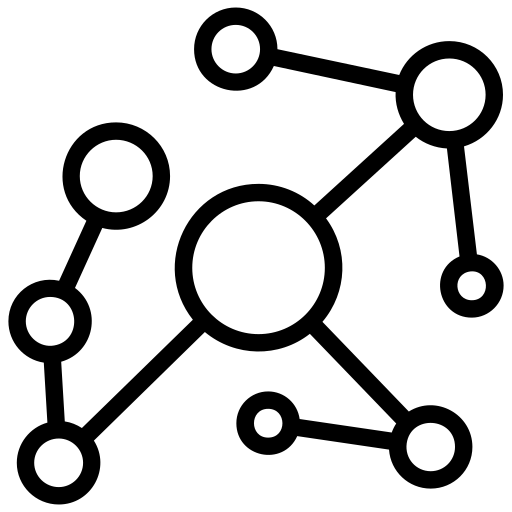
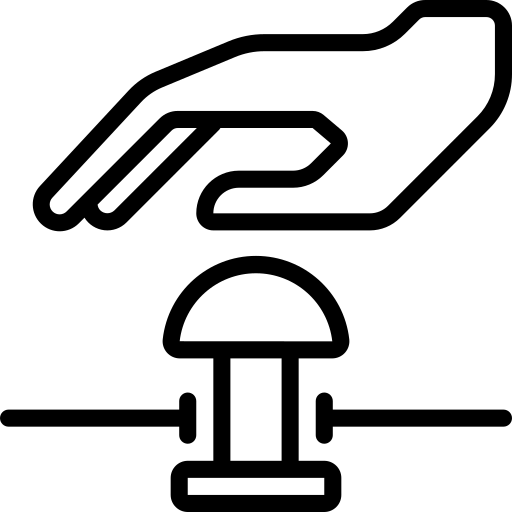
implemented the NanoVNA 3D Model Base Creator

diff --git a/src/ui/circuit_model_window.py b/src/ui/circuit_model_window.py
@@ -1,0 +1,305 @@
+import os
+import json
+import subprocess
+from PyQt6.QtWidgets import (QMainWindow, QWidget, QVBoxLayout, QHBoxLayout, 
+                             QLabel, QTextEdit, QPushButton, QMenuBar, QMenu, 
+                             QFileDialog, QFrame, QSizePolicy, QStyle, QStackedWidget,
+                             QDialog, QLineEdit, QMessageBox)
+from PyQt6.QtGui import QAction, QActionGroup
+from PyQt6.QtCore import Qt, pyqtSignal
+
+import config
+from src.utils.image_helper import load_and_scale_image
+from src.utils.gemini_worker import GeminiWorker
+from src.utils.stl_viewer import STLViewerWidget
+from src.ui.panels import ELK_FlowChartPanel, ELK_GraphPanel
+
+# --- Widget personalizzato per il drag and drop ---
+class ImageDropLabel(QLabel):
+    imageDropped = pyqtSignal(str)
+    clicked = pyqtSignal()
+
+    def __init__(self, text=""):
+        super().__init__(text)
+        self.setAcceptDrops(True)
+        self.setCursor(Qt.CursorShape.PointingHandCursor)
+
+    def mousePressEvent(self, event):
+        if event.button() == Qt.MouseButton.LeftButton:
+            self.clicked.emit()
+        super().mousePressEvent(event)
+
+    def dragEnterEvent(self, event):
+        if event.mimeData().hasUrls():
+            url = event.mimeData().urls()[0]
+            if url.isLocalFile():
+                ext = os.path.splitext(url.toLocalFile())[1].lower()
+                if ext in ['.png', '.jpg', '.jpeg', '.bmp']:
+                    event.acceptProposedAction()
+                    self.setStyleSheet("border: 2px solid #4CAF50; background-color: #e8f5e9;")
+                    return
+        event.ignore()
+
+    def dragLeaveEvent(self, event):
+        self.setStyleSheet("")
+
+    def dropEvent(self, event):
+        self.setStyleSheet("")
+        file_path = event.mimeData().urls()[0].toLocalFile()
+        self.imageDropped.emit(file_path)
+
+# --- Finestra Principale Circuito (NanoVNA) ---
+class CircuitModelWindow(QMainWindow):
+    def __init__(self):
+        super().__init__()
+        self.setWindowTitle("Generatore Modello 3D (Circuito / NanoVNA)")
+        self.resize(1000, 700)
+        
+        self.current_image_path = None
+        
+        self._init_menu_bar()
+        self._init_central_widget()
+        self._setup_layout()
+        self._apply_styles()
+
+    def _init_menu_bar(self):
+        menu_bar = self.menuBar()
+        file_menu = menu_bar.addMenu("&File")
+        exit_action = QAction("E&sci", self)
+        exit_action.setShortcut("Ctrl+Q")
+        exit_action.triggered.connect(self.close)
+        file_menu.addAction(exit_action)
+
+        template_menu = menu_bar.addMenu("&Template")
+        template_group = QActionGroup(self)
+        template_group.setExclusive(True)
+        
+        act_flow = QAction("Flow Chart", self)
+        act_flow.setCheckable(True)
+        act_flow.triggered.connect(lambda: self.switch_template(0))
+        template_group.addAction(act_flow)
+
+        act_dir = QAction("Direct Graph", self)
+        act_dir.setCheckable(True)
+        act_dir.triggered.connect(lambda: self.switch_template(1))
+        template_group.addAction(act_dir)
+        act_dir.setChecked(True)
+        
+        act_undir = QAction("Undirect Graph", self)
+        act_undir.setCheckable(True)
+        act_undir.triggered.connect(lambda: self.switch_template(2))
+        template_group.addAction(act_undir)
+
+        template_menu.addActions([act_flow, act_dir, act_undir])
+
+        options_menu = menu_bar.addMenu("&Opzioni")
+        act_api_key = QAction("API Key", self)
+        act_api_key.triggered.connect(self._apri_impostazioni_api)
+        options_menu.addAction(act_api_key)
+
+        act_debug_mode = QAction("Modalità Debug", self)
+        act_debug_mode.setCheckable(True)
+        act_debug_mode.setChecked(config.DEBUG_MODE)
+        act_debug_mode.triggered.connect(self._toggle_debug_mode)
+        options_menu.addAction(act_debug_mode)
+
+    def _init_central_widget(self):
+        central_widget = QWidget()
+        self.setCentralWidget(central_widget)
+        self.main_layout = QHBoxLayout(central_widget)
+        self.main_layout.setContentsMargins(20, 20, 20, 20)
+        self.main_layout.setSpacing(20)
+
+    def _setup_layout(self):
+        self.left_col_layout = QVBoxLayout()
+        self.main_layout.addLayout(self.left_col_layout, stretch=1)
+
+        self.img_preview_label = ImageDropLabel("PREVIEW IMG\n\n(Clicca qui o trascina un'immagine)")
+        self.img_preview_label.setObjectName("img_preview")
+        self.img_preview_label.setAlignment(Qt.AlignmentFlag.AlignCenter)
+        self.img_preview_label.setMinimumSize(400, 300)
+        self.img_preview_label.setSizePolicy(QSizePolicy.Policy.Expanding, QSizePolicy.Policy.Expanding)
+        
+        self.img_preview_label.imageDropped.connect(self._process_image_file)
+        self.img_preview_label.clicked.connect(self.handle_choose_file)
+        self.left_col_layout.addWidget(self.img_preview_label, stretch=1)
+
+        self.right_col_layout = QVBoxLayout()
+        self.main_layout.addLayout(self.right_col_layout, stretch=1)
+
+        self.stacked_widget = QStackedWidget()
+        self.panel_flow = ELK_FlowChartPanel()
+        self.panel_dir = ELK_GraphPanel()
+        self.panel_undir = ELK_GraphPanel()
+        
+        self.stacked_widget.addWidget(self.panel_flow)
+        self.stacked_widget.addWidget(self.panel_dir)
+        self.stacked_widget.addWidget(self.panel_undir)
+        self.stacked_widget.setCurrentIndex(1)
+        self.right_col_layout.addWidget(self.stacked_widget, stretch=1)
+
+        self.viewer_3d = STLViewerWidget()
+        self.viewer_3d.setMinimumHeight(300)
+        self.right_col_layout.addWidget(self.viewer_3d)
+
+        self.console_output = QTextEdit()
+        self.console_output.setReadOnly(True)
+        self.console_output.setMaximumHeight(150)
+        self.console_output.setStyleSheet("background-color: rgba(var(#f0f0f0),0.5); color: rgb(255,255,255); font-family: monospace;")
+        self.console_output.setPlaceholderText("Qui compariranno i log della pipeline Circuito ELK.")
+        self.right_col_layout.addWidget(self.console_output)
+
+        self.send_btn_layout = QHBoxLayout()
+        self.right_col_layout.addLayout(self.send_btn_layout)
+        self.send_btn_layout.addStretch()
+
+        self.send_btn = QPushButton(" Esegui Pipeline Circuito")
+        self.send_btn.setMinimumSize(160, 40)
+        icon = self.style().standardIcon(QStyle.StandardPixmap.SP_ArrowRight)
+        self.send_btn.setIcon(icon)
+        self.send_btn.clicked.connect(self.handle_send_to_gemini)
+        self.send_btn_layout.addWidget(self.send_btn)
+
+    def switch_template(self, index):
+        self.stacked_widget.setCurrentIndex(index)
+
+    def _apply_styles(self):
+        style_sheet = """
+            #img_preview { border: 2px dashed #999; color: #777; font-size: 16px; font-weight: bold; background-color: #f5f5f5; margin-bottom: 10px; }
+            QPushButton { font-size: 14px; border-radius: 4px; border: 1px solid #aaa; background-color: #e1e1e1; color: #333; padding: 5px 15px; }
+            QPushButton:hover { background-color: #dcdcdc; }
+            QPushButton:pressed { background-color: #c1c1c1; }
+        """
+        self.setStyleSheet(style_sheet)
+
+    def handle_choose_file(self):
+        file_path, _ = QFileDialog.getOpenFileName(self, "Scegli Immagine", "", "Immagini (*.png *.jpg *.jpeg *.bmp)")
+        if file_path:
+            self._process_image_file(file_path)
+
+    def _process_image_file(self, file_path):
+        self.current_image_path = file_path
+        pixmap = load_and_scale_image(file_path, self.img_preview_label.width(), self.img_preview_label.height())
+        if pixmap:
+            self.img_preview_label.setPixmap(pixmap)
+        else:
+            self.img_preview_label.setText("Errore nel caricamento dell'immagine")
+            self.current_image_path = None
+
+    def handle_send_to_gemini(self):
+        if not self.current_image_path:
+            self.console_output.append(">> ERRORE: Seleziona un'immagine prima di inviare.")
+            return
+
+        self.console_output.clear()
+        self.send_btn.setEnabled(False)
+        
+        active_panel = self.stacked_widget.currentWidget()
+        prompt_obj = active_panel.get_prompt_object()
+
+        self.worker = GeminiWorker(self.current_image_path, prompt_obj.get_phase_1(), prompt_obj.get_phase_2())
+        self.worker.progress.connect(self.update_ui_progress, type=Qt.ConnectionType.UniqueConnection)
+        self.worker.finished.connect(self.process_elk_pipeline, type=Qt.ConnectionType.UniqueConnection)
+        self.worker.error.connect(self.handle_generation_error, type=Qt.ConnectionType.UniqueConnection)
+        self.worker.start()
+
+    def process_elk_pipeline(self, raw_json):
+        try:
+            self.update_ui_progress("Avvio motore grafico ELK (Node.js)...")
+            clean_json = raw_json.replace("```json", "").replace("```", "").strip()
+            graph_data = json.loads(clean_json)
+
+            # Iniezione sicura via stdin, niente file input_path
+            output_path = os.path.join(config.TEMP_DIR, "output_coordinates.json")
+            json_string = json.dumps(graph_data)
+
+            cmd = ["node", "src/utils/run_elk.js", output_path]
+            subprocess.run(cmd, input=json_string, text=True, check=True, capture_output=True)
+
+            self.update_ui_progress("Conversione in modello 3D per NanoVNA...")
+            
+            # --- CHIAMATA ALLA FUNZIONE DEL NANOVNA ---
+            from src.utils.json_to_scad_NanoVNA import generate_scad
+            
+            os.makedirs(config.OUTPUT_DIR, exist_ok=True)
+            scad_output = os.path.join(config.OUTPUT_DIR, "circuit_model.scad")
+            
+            generate_scad(output_path, scad_output)
+            
+            self.update_ui_progress(f"COMPLETATO! Modello Circuito salvato in:\n{scad_output}")
+
+            # Compilazione STL
+            cmd = ["openscad", "-o", os.path.join(config.OUTPUT_DIR, "circuit_model.stl"), scad_output]
+            subprocess.run(cmd, check=True)
+            
+            self.viewer_3d.load_stl(os.path.join(config.OUTPUT_DIR, "circuit_model.stl"))
+            
+            self.send_btn.setEnabled(True)
+            self._cleanup_worker()
+            
+        except subprocess.CalledProcessError as e:
+            self.handle_generation_error(f"Errore in Node.js o OpenSCAD:\n{e.stderr}")
+        except Exception as e:
+            self.handle_generation_error(f"Errore nella generazione: {str(e)}")
+
+    def update_ui_progress(self, message):
+        self.console_output.append(f"> {message}")
+
+    def handle_generation_error(self, error_message):
+        self.send_btn.setEnabled(True)
+        self.console_output.append(f"\n>> ERRORE CRITICO:\n{error_message}")
+        self._cleanup_worker()
+
+    def _apri_impostazioni_api(self):
+        # ... (Stesso codice dell'impostazione API della versione Android)
+        dialog = QDialog(self)
+        dialog.setWindowTitle("Impostazione API Key")
+        dialog.resize(450, 180)
+        dialog.setModal(True)
+        layout = QVBoxLayout(dialog)
+        testo_html = "<div align='center'>Incolla la tua chiave di Gemini:<br><a href='https://aistudio.google.com/app/api-keys'>https://aistudio.google.com/app/api-keys</a></div>"
+        lbl_info = QLabel(testo_html)
+        lbl_info.setOpenExternalLinks(True)
+        lbl_info.setTextFormat(Qt.TextFormat.RichText)
+        lbl_info.setTextInteractionFlags(Qt.TextInteractionFlag.TextBrowserInteraction)
+        layout.addWidget(lbl_info)
+        entry_chiave = QLineEdit()
+        entry_chiave.setPlaceholderText("Inserisci API Key...")
+        layout.addWidget(entry_chiave)
+        
+        env_path = os.path.join(os.getcwd(), ".env")
+        if os.path.exists(env_path):
+            with open(env_path, "r") as f:
+                for linea in f:
+                    if linea.startswith("GEMINI_API_KEY="):
+                        entry_chiave.setText(linea.strip().split("=", 1)[1])
+        
+        btn_salva = QPushButton("Salva")
+        layout.addWidget(btn_salva)
+        def salva_chiave():
+            nuova_chiave = entry_chiave.text().strip()
+            linee = []
+            if os.path.exists(env_path):
+                with open(env_path, "r") as f: linee = f.readlines()
+            agg = False
+            for i, linea in enumerate(linee):
+                if linea.startswith("GEMINI_API_KEY="):
+                    linee[i] = f"GEMINI_API_KEY={nuova_chiave}\n"
+                    agg = True
+                    break
+            if not agg: linee.append(f"GEMINI_API_KEY={nuova_chiave}\n")
+            with open(env_path, "w") as f: f.writelines(linee)
+            QMessageBox.information(dialog, "Successo", "API Key salvata!")
+            dialog.accept()
+        btn_salva.clicked.connect(salva_chiave)
+        dialog.exec()
+
+    def _toggle_debug_mode(self, checked):
+        config.DEBUG_MODE = checked
+        stato = "ATTIVATA (TestClient)" if checked else "DISATTIVATA (Chiamate Reali)"
+        self.console_output.append(f"\n>> Modalità Debug: {stato}")
+
+    def _cleanup_worker(self):
+        if hasattr(self, 'worker') and self.worker is not None:
+            self.worker.deleteLater()
+            self.worker = None

diff --git a/src/ui/HaptyHub.py b/src/ui/HaptyHub.py
@@ -80,14 +80,15 @@ class HaptyHub(QMainWindow):
         sections = [
             ("Modello 3D (Android)", "Genera modelli tattili ottimizzati per tablet.", os.path.join(config.ASSET_DIR, "android_icon.png"), self.open_android_model),
             ("Modello 3D (Circuito)", "Crea modelli tattili pronti alla stampa.", os.path.join(config.ASSET_DIR, "circuit_icon.png"), self.open_circuit_model),
+            ("Bassorilievo Semplice", "Crea modelli tattili base pronti alla stampa, senza interattività.", os.path.join(config.ASSET_DIR, "basrelief_icon.png"), self.open_basic_model),
             ("Lettura Sensore", "Avvia la lettura interattiva da circuito con feedback vocale.", os.path.join(config.ASSET_DIR, "reader_icon.png"), self.open_reader),
             ("Calibrazione", "Associa i nodi fisici alle impronte del sensore.", os.path.join(config.ASSET_DIR, "calibration_icon.png"), self.open_calibration)
         ]
 
-        # Posizionamento nella griglia 2x2
+        # Posizionamento nella griglia 3x2
         for i, (title, desc, icon_path,callback) in enumerate(sections):
             card = NavCard(title, desc, icon_path, callback)
-            grid.addWidget(card, i // 2, i % 2, alignment=Qt.AlignmentFlag.AlignCenter)
+            grid.addWidget(card, i // 3, i % 3, alignment=Qt.AlignmentFlag.AlignCenter)
 
         # Applicazione di uno stile moderno tramite QSS
         self.setStyleSheet("""
@@ -109,9 +110,14 @@ class HaptyHub(QMainWindow):
         self.android_win.show()
 
     def open_circuit_model(self):
-        from src.ui.basic_haptic_modeler import LandingWindow # La rinomineremo poi
-        self.circuit_win = LandingWindow()
+        from src.ui.circuit_model_window import CircuitModelWindow # NUOVA FINESTRA
+        self.circuit_win = CircuitModelWindow()
         self.circuit_win.show()
+
+    def open_basic_model(self):
+        from src.ui.basic_haptic_modeler import LandingWindow # LA TUA VECCHIA FINESTRA
+        self.basic_win = LandingWindow()
+        self.basic_win.show()
 
     def open_reader(self):
         from src.ui.hapticReader_window import HapticReaderWindow

diff --git a/src/ui/basic_haptic_modeler.py b/src/ui/basic_haptic_modeler.py
@@ -67,7 +67,7 @@ class LandingWindow(QMainWindow):
     def __init__(self):
         super().__init__()
 
-        self.setWindowTitle("HaptiGraph")
+        self.setWindowTitle("Modellatore di Bassorilievi Tattici - HaptyHub")
         self.resize(1000, 700) # Una dimensione iniziale decente
 
         # --- Variabili di stato interne ---
